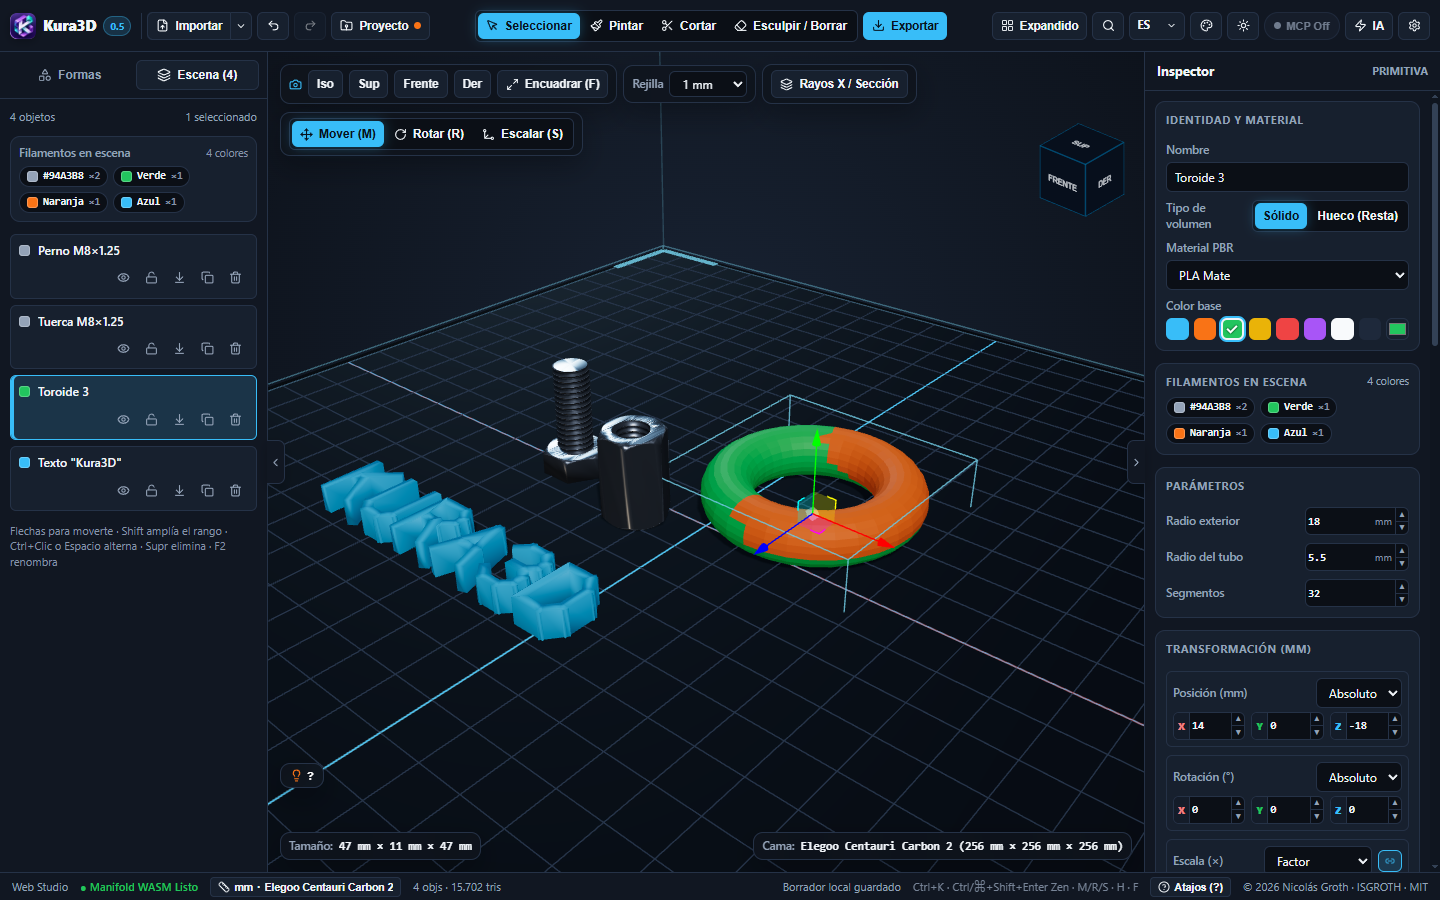
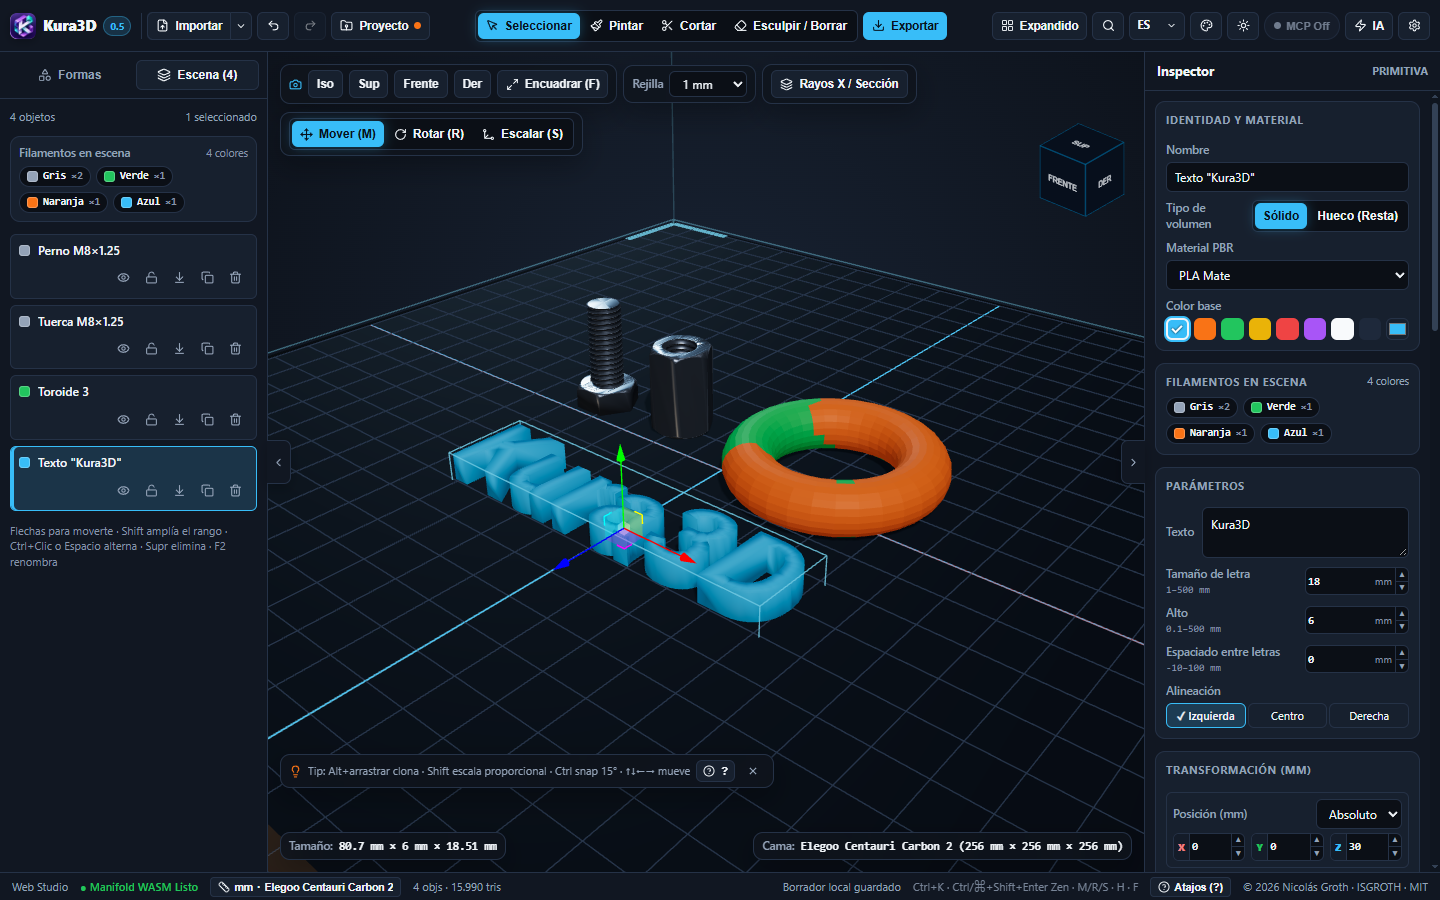
docs: recapturas 01-estudio (texto 3D legible, sección Parámetros) y 05-movil en español; ajusta alineación del texto; prueba de campos de texto

diff --git a/src/core/__tests__/parametricTextFields.test.ts b/src/core/__tests__/parametricTextFields.test.ts
@@ -1,0 +1,33 @@
+/**
+ * @file src/core/__tests__/parametricTextFields.test.ts
+ * @description Los campos del texto 3D incluyen espaciado (con el rango del motor), alineación
+ * y un texto multilínea.
+ * @author Nicolás Groth <ngroth@gmail.com>
+ * @organization ISGROTH — Innovación y Soluciones GROTH
+ * @license MIT
+ */
+
+import { describe, expect, it } from 'vitest';
+import { PRIMITIVE_PARAM_RANGES, TEXT_ALIGN_OPTIONS } from '../../engine/primitiveLimits';
+import { primitiveParamFields } from '../scene/parametric';
+
+describe('campos paramétricos del texto 3D', () => {
+  const fields = primitiveParamFields('text');
+
+  it('el texto admite varias líneas', () => {
+    const text = fields.find((f) => f.key === 'text');
+    expect(text).toMatchObject({ kind: 'text', multiline: true });
+  });
+
+  it('el espaciado usa el rango del motor', () => {
+    const spacing = fields.find((f) => f.key === 'letterSpacing');
+    expect(spacing).toMatchObject({ kind: 'length', defaultValue: 0 });
+    expect(spacing && 'range' in spacing ? spacing.range : null).toEqual(PRIMITIVE_PARAM_RANGES.letterSpacing);
+  });
+
+  it('la alineación ofrece izquierda, centro y derecha', () => {
+    const align = fields.find((f) => f.key === 'textAlign');
+    expect(align).toMatchObject({ kind: 'select', defaultValue: 'left' });
+    expect(align && 'options' in align ? align.options : []).toEqual([...TEXT_ALIGN_OPTIONS]);
+  });
+});

diff --git a/src/styles/parametersSection.css b/src/styles/parametersSection.css
@@ -58,7 +58,8 @@
 }
 
 /* La alineación ocupa su propia fila: etiqueta arriba y tres opciones de igual ancho. */
-.kura-param-select-row {
+.kura-field-row.kura-param-select-row,
+.kura-sidebar-right .kura-field-row.kura-param-select-row {
   flex-direction: column;
   align-items: stretch;
   gap: 4px;
@@ -67,4 +68,14 @@
 .kura-param-select-row .kura-param-segmented {
   display: grid;
   grid-template-columns: repeat(3, minmax(0, 1fr));
+}
+
+.kura-param-select-row .kura-field-label {
+  text-align: left;
+}
+
+.kura-param-select-row .kura-param-seg {
+  padding: 4px 2px;
+  font-size: 11px;
+  white-space: nowrap;
 }
